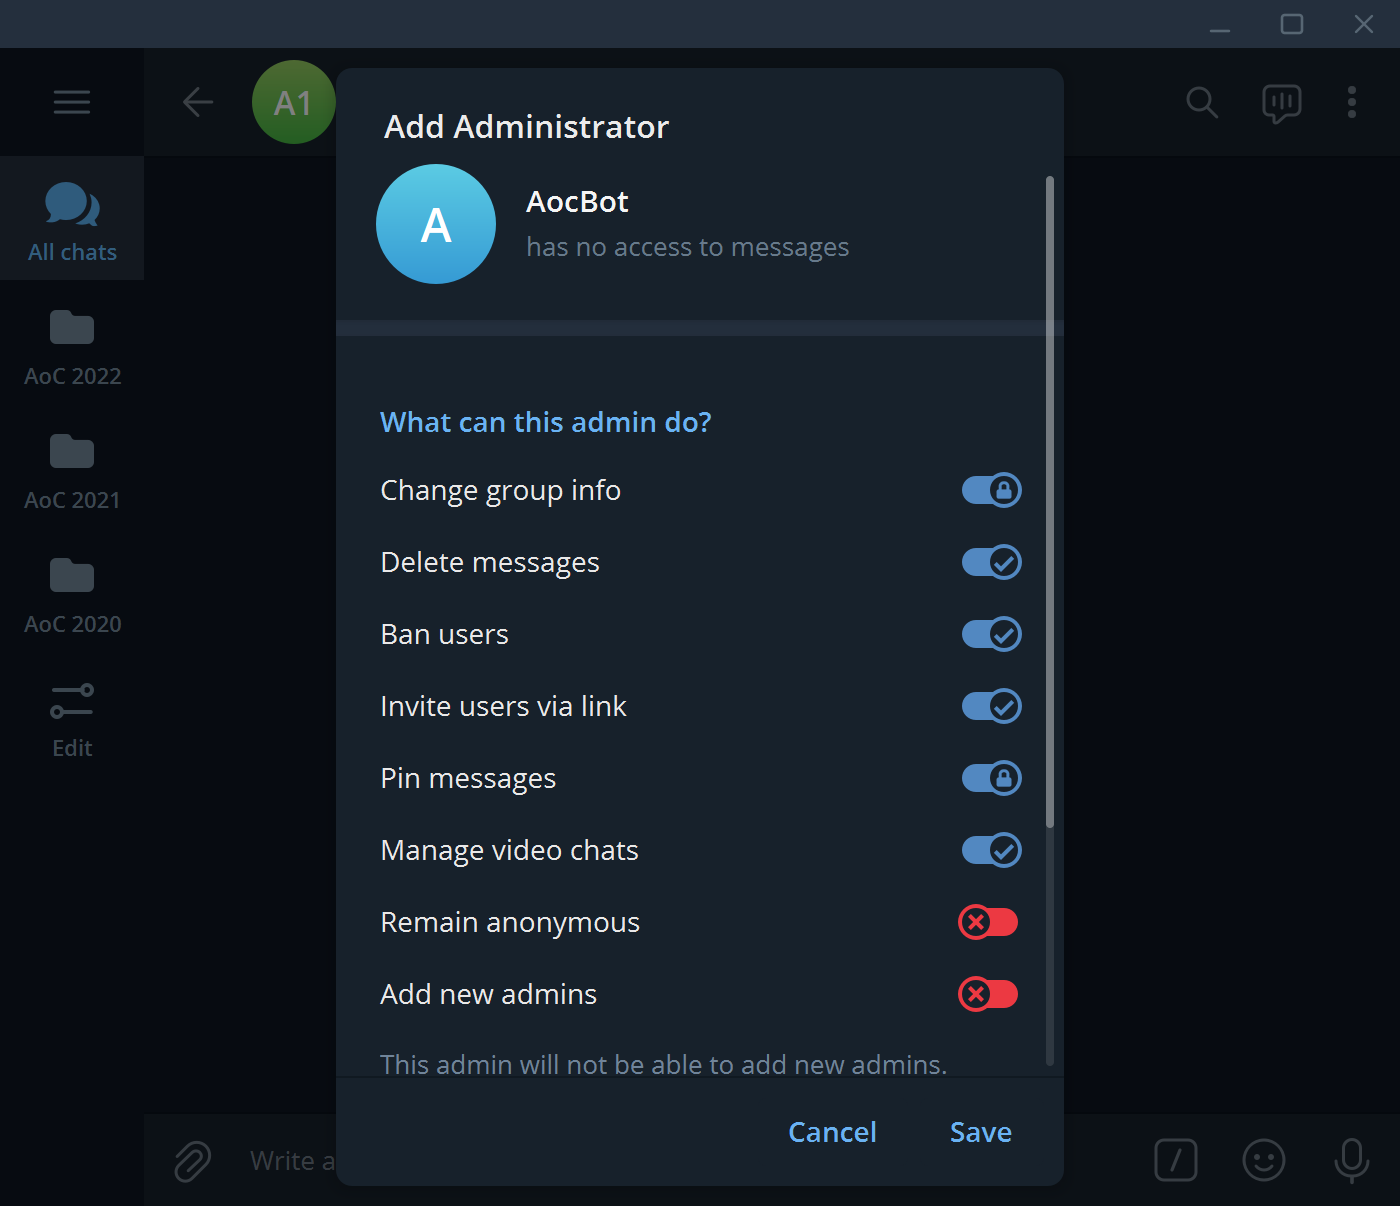
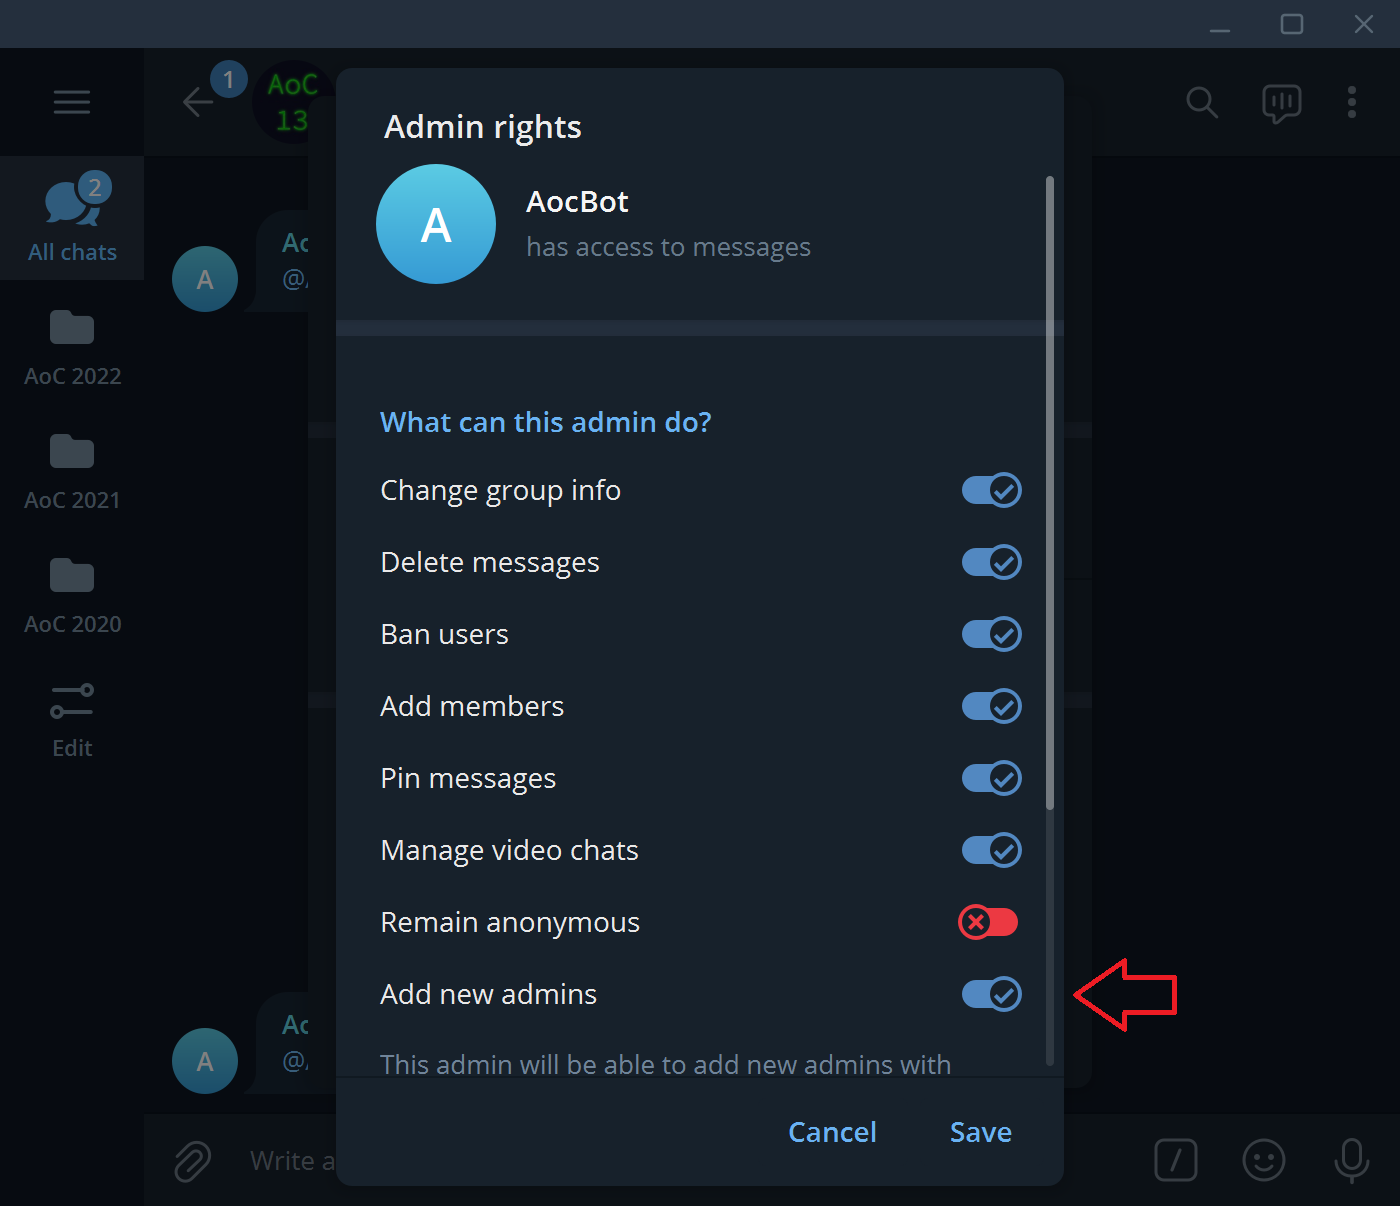
Autopromote to admin works

diff --git a/src/member.js b/src/member.js
@@ -1,0 +1,86 @@
+'use strict';
+
+const { sendTelegram } = require('./network');
+
+const { DynamoDB } = require('@aws-sdk/client-dynamodb');
+
+const DB_TABLE = 'aoc-bot';
+const db = new DynamoDB({ apiVersion: '2012-08-10' });
+
+const onChatMember = async (chat_member) => {
+    // Handle new members added to the group, who are not administrators
+    const isGroup = chat_member.chat.type === 'group' || chat_member.chat.type === 'supergroup';
+    const wasNotInChat = chat_member.old_chat_member?.status === 'left'
+        || chat_member.old_chat_member?.status === 'kicked'
+        || chat_member.old_chat_member?.status === 'restricted';
+    const isNowInChat = chat_member.new_chat_member?.status === 'member';
+
+    if (!isGroup || !wasNotInChat || !isNowInChat) {
+        return;
+    }
+
+    console.log(`onChatMember: new member ${chat_member.new_chat_member.user.id} chat ${chat_member.chat.title}`);
+
+    // Check if the member is in the promotion list
+    const promotion = await getPromotion(chat_member.new_chat_member.user.id);
+    if (!promotion) {
+        console.log(`onChatMember: no promotion for ${chat_member.new_chat_member.user.id}`);
+        return;
+    }
+
+    console.log(`onChatMember: promoting ${chat_member.new_chat_member.user.id}`);
+
+    await promote(chat_member.chat.id, chat_member.new_chat_member.user.id);
+
+    console.log('onChatMember: done');
+};
+
+const getPromotion = async (telegramUser) => {
+    // Check if there is a promotion for this user
+    const params = {
+        TableName: DB_TABLE,
+        Key: {
+            id: { S: 'promotion' },
+            sk: { S: String(telegramUser) }
+        }
+    };
+
+    const items = await db.getItem(params);
+    return items?.Item !== undefined;
+};
+
+const promote = async (chat, telegramUser) => {
+    try {
+        await sendTelegram('promoteChatMember', {
+            chat_id: chat,
+            user_id: telegramUser,
+
+            can_manage_chat: true,
+            can_delete_messages: true,
+            can_manage_video_chats: true,
+            can_restrict_members: true,
+            can_promote_members: true,
+            can_change_info: true,
+            can_invite_users: true,
+            can_post_messages: true,
+            can_edit_messages: true,
+            can_pin_messages: true,
+            can_post_stories: true,
+            can_edit_stories: true,
+            can_delete_stories: true,
+            can_manage_topics: true
+        });
+    } catch (error) {
+        // Detect when the bot does not have enough rights to promote a member
+        const code = error.response?.data?.error_code;
+        const description = error.response?.data?.description;
+
+        if (error.isAxiosError && code === 400 && /not enough rights/.test(description)) {
+            console.warn(`promote: Not enough rights (${description})`);
+        } else {
+            throw error;
+        }
+    }
+};
+
+exports.onChatMember = onChatMember;

diff --git a/src/api.js b/src/api.js
@@ -2,6 +2,7 @@
 
 const { getWebhookSecret } = require('./secrets');
 const { onMyChatMember } = require('./chat');
+const { onChatMember } = require('./member');
 const { onMessage } = require('./message');
 const { onStart } = require('./times');
 const { onStop } = require('./leaderboards');
@@ -75,6 +76,8 @@ const postTelegram = async (event) => {
 
     if (update.my_chat_member) {
         await onMyChatMember(update.my_chat_member);
+    } else if (update.chat_member) {
+        await onChatMember(update.chat_member);
     } else if (update.message) {
         await onMessage(update.message);
     }

diff --git a/unit-tests/register.test.js b/unit-tests/register.test.js
@@ -172,7 +172,7 @@ describe('main function', () => {
         await expect(register.main()).resolves.toBeUndefined();
 
         const payload = {
-            allowed_updates: ['message', 'my_chat_member'],
+            allowed_updates: ['chat_member', 'message', 'my_chat_member'],
             drop_pending_updates: true,
             secret_token: 'mAiNwEbHoOkSeCrEt',
             url: 'mAiNuRl'

diff --git a/src/register.js b/src/register.js
@@ -84,7 +84,7 @@ const main = async () => {
 
     const data = {
         url: args.url,
-        allowedUpdates: ['message', 'my_chat_member']
+        allowedUpdates: ['chat_member', 'message', 'my_chat_member']
     };
 
     return await register(secrets, data);

diff --git a/docs/create-group.md b/docs/create-group.md
@@ -14,10 +14,12 @@
    ![](img/create-group/edit-group-1.png)
    ![](img/create-group/visible-history.png)
 
-1. <a id="promote-bot"></a>In the same "Manage group" menu, select the list of members, right click on `@AocElfBot` and promote it to admin. Use default access rights for the bot.
+1. <a id="promote-bot"></a>In the same "Manage group" menu, select the list of members, right click on `@AocElfBot` and promote it to admin.
 
    ![](img/create-group/edit-group-2.png)
    ![](img/create-group/promote-admin.png)
+
+1. In addition to the defaults, enable also the "Add new admins" permission. This will allow the bot to autopromote people to admins after they join the group.
    ![](img/create-group/add-admin.png)
 
 1. If everything goes well, the bot will set up the new group and create a pinned message with the leaderboard.
